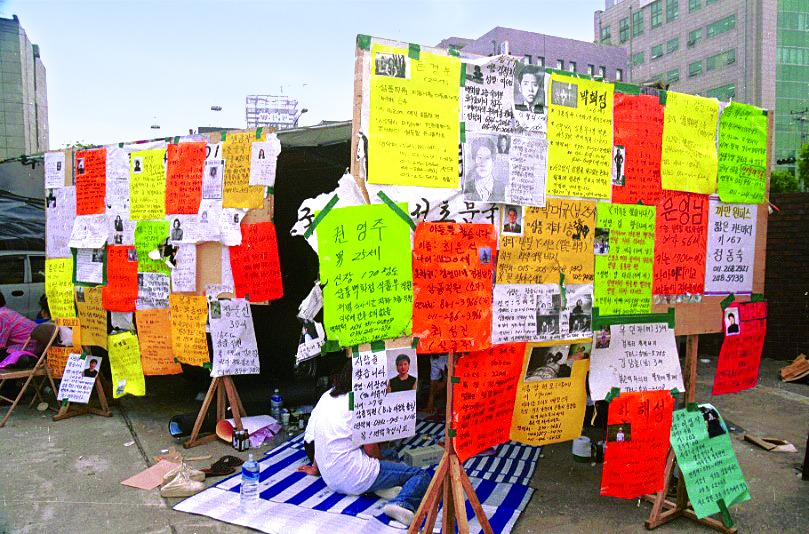
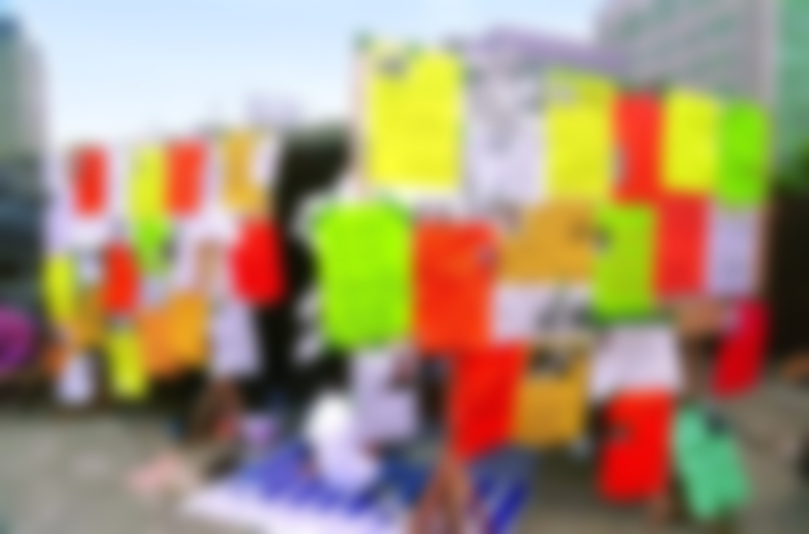
10本目⑤c: missing_board_01 の私人の顔・氏名をぼかす（σ=8.0 全面）／⑤c台帳を作る
- ref/ep10/missing_board_01.jpg を GaussianBlur σ=8.0 で全面ぼかし（JPEG q=95）
  根拠＝いちばん大きい肖像が 32×42px、σ＝顔の幅÷4。出力倍率 2.373 倍で σ=3/5/8/12 を比べて決めた
  顔写真・氏名・電話番号が掲示板のほぼ全面に散っているため、選んで当てず全面に当てた
- ref/ep10/masked.json に md5 を記録（4a0862ab… → 88931c1d…）
- qa_all.py が 15/15 ✓（exit 0）になった
- ref/ep10/photos.md §7-2b に根拠を記録／qa_out/ep10_qa_look1.md に⑤c台帳（終わりの決まり付き）

diff --git a/qa_out/ep10_qa_look1.md b/qa_out/ep10_qa_look1.md
@@ -1,0 +1,78 @@
+# 10本目（三豊百貨店）⑤c 検品【見る】台帳 ── シート全数
+
+**作った日**：2026-09-20　**版**：`f4863e4` ＋ ぼかし1件（`missing_board_01`）
+**カット数**：195（図105／写真90＝46.2%）　**シート**：2列×3行・1枚6カット ＝ **33枚**
+
+---
+
+## 0. 🔴🔴 終わりの決まり（⑤c に入る前に先に書く）
+
+正本＝記憶 `feedback-jiko-qa-must-have-an-end`。**粗が見つかる限り続ける形にはしない。**
+
+| | |
+|---|---|
+| **残りのチャット** | ⑤c（このチャット＝シート33枚で全数）／⑤c-2（疑いを原寸）／⑤c'（直す＋焼き直し）／⑥（本レンダ〜公開）＝ **あと4チャット** |
+| **焼き直し** | **r02・r03 まで**。r03 で残ったものは次回の注意へ |
+| **最後の検品の範囲** | **直したカットだけ**。ほかは見ない |
+| **合格の基準** | ① `qa_all` 15/15 ✓　② 直したカットを原寸で確認　③ 直しが絵を悪くしたら**直し直さず、見終わった版へ戻す**　④ それ以外の粗は**直さず「次回の注意」へ** |
+| **このチャットでやらないこと** | 直さない・焼き直さない・原寸を見ない（原寸は⑤c-2）。**例外＝`missing_board_01` のぼかし**（焼く前に要るので先に済ませた） |
+
+---
+
+## 1. 門番（このチャットで自分で回しました。前のチャットの出力は引き写していません）
+
+| 門番 | 結果 | 備考 |
+|---|---|---|
+| `cuts.SPEC` | **195** | 引き継ぎと一致 |
+| `check_cuts.py` | **exit 0 ✓** | 章11枚・台本と1対1・写真46.2%・切り落とし25%以内 |
+| `qa_all.py`（ぼかす前） | **exit 2**　14/15 ✓・🔴 `photomask` 1本 | 引き継ぎのとおり＝**正しい状態** |
+| `qa_all.py`（ぼかした後） | （§3 に記録） | |
+
+---
+
+## 2. ✅ `missing_board_01`（c810）のぼかし ── 済ませました
+
+記録は `ref/ep10/photos.md` §7-2b。**σ=8.0 を全面に**・md5 `4a0862ab…` → `88931c1d…`。
+`check_photo_mask.py --record` ✓。
+
+🔴🔴 **別件の発見（このチャットで分かったこと・直していません）**
+`ref/ep10/*.jpg` は **git に載っていて**（104ファイル）、リモート `toro` ＝
+`github.com/torotorotolo/zukai-engine` は **`private=false`＝公開リポジトリ**です。
+＝ **ぼかす前の版が、いま GitHub から誰でも読める状態で履歴に残っています。**
+この写真自体は公共ヌリ第1類型でソウル歴史編纂院が公開しているものなので**新しい流出ではありません**が、
+「動画に出さない」と決めた理由はそのまま当てはまります。
+→ **履歴から消すか（`git filter-repo` ＋ force push ＝ 元に戻せない）はカズヤくんの判断。**§5 に積みました。
+
+---
+
+## 3. シート全数（33枚）
+
+凡例：🔴＝直すもの ／ ⚠＝原寸で測ってから決める（⑤c-2）／ ・＝気づきだけ
+⚠ **シートで決めてはいけない3型**（図の比例・小さな点・札の切れ）には **🔴 を付けない**。
+「⑤c-2 で原寸で測る」と書いて疑いに積む（記憶 `feedback-sheet-cannot-judge-three-types`）。
+
+| シート | カット | 印 | 所見（実測の数字で） |
+|---|---|---|---|
+| | | | （これから） |
+
+---
+
+## 4. 疑い（⑤c-2 で原寸で測るもの）
+
+| # | カット | 何を測るか | 出どころ |
+|---|---|---|---|
+| 1 | `c810` | ぼかした絵を全画面で出してよいか（額装に替えるか） | このチャット §2 |
+| 2 | `c903` | `rescue_work_19` の袋の写り方 | `photos.md` §5 #2 |
+| 3 | `c114` | `sign_sampoong_03` の看板の字が読めるか | `photos.md` §5 #4 |
+| 4 | `c708` | `wreck_ground_04` の緑のかぶりをどこまで戻すか | `photos.md` §5 #5 |
+| 5 | 各カット | 焼き込みの日付7点が字幕帯と重なっていないか | `photos.md` §5 #6 |
+| 6 | `c115` | 寄り1.20で建物の上端・左右が落ちていないか | `photos.md` §5 #7 |
+
+---
+
+## 5. カズヤくんの判断を待つもの
+
+| # | 何 | 選べる道 |
+|---|---|---|
+| 1 | 公開リポジトリの履歴に残る**ぼかす前の**`missing_board_01` | ① そのまま（出どころが公開しているものなので）／② 履歴から消す（`git filter-repo` ＋ force push・**元に戻せない**） |
+| 2 | 撮影者名の片仮名（`최광모`→「チェ・グァンモ」） | 画面も原語にするか | 
